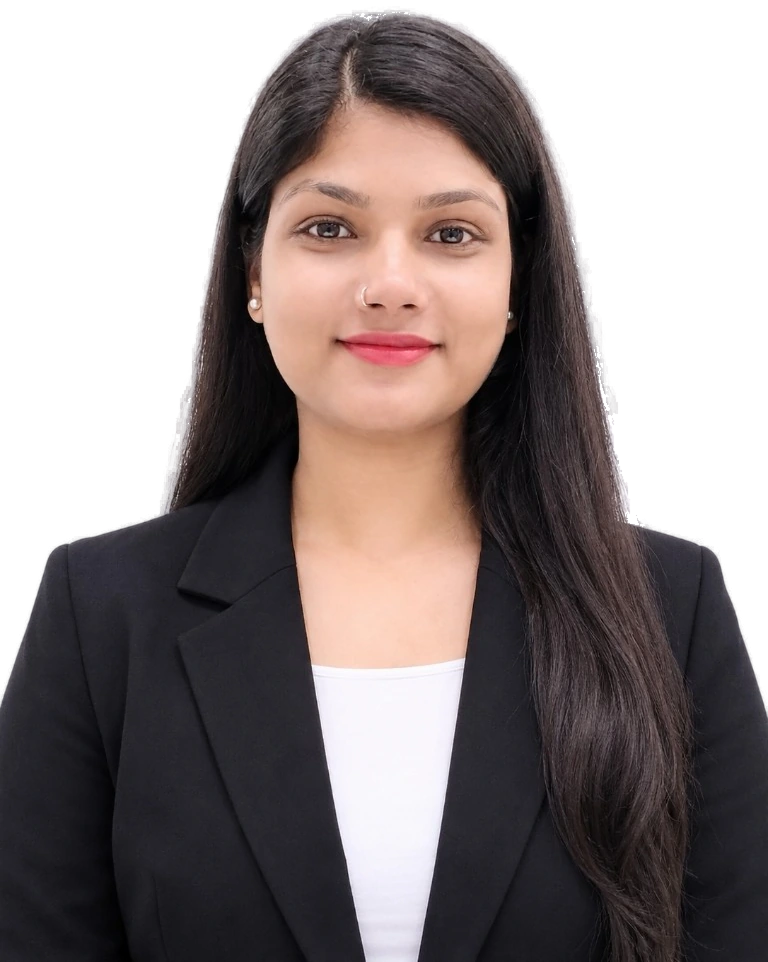
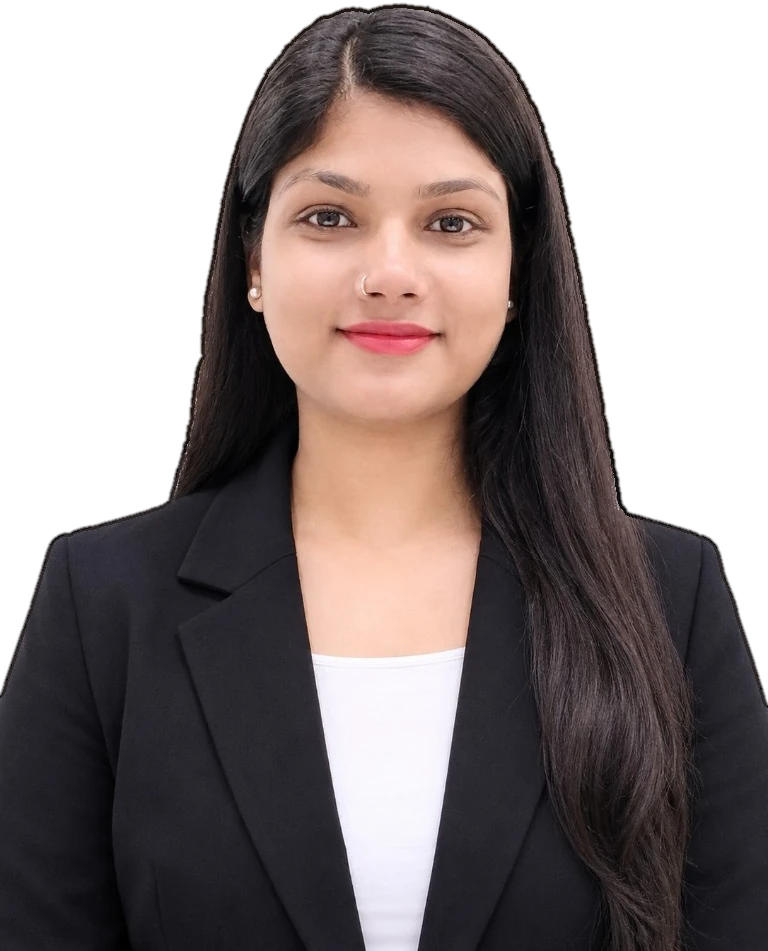
Clean white fringe from the hero portrait cutout.
Re-matte with stronger edge decontamination so hair blends into the peach/ivory hero without studio halos.

diff --git a/frontend/src/components/home/HeroSection.tsx b/frontend/src/components/home/HeroSection.tsx
@@ -20,7 +20,7 @@ type Props = {
 };
 
 /** Transparent cutout portrait. Replaced when an owner upload exists. */
-const FALLBACK_PORTRAIT = "/images/pooja-portrait.webp";
+const FALLBACK_PORTRAIT = "/images/pooja-portrait.webp?v=hair-clean-2";
 
 const BADGE_SLOTS = [
   { style: { top: "22%", left: "18%" }, depth: 18, delay: "0s" },
@@ -224,7 +224,7 @@ export default function HeroSection({
                   initial={{ opacity: 0, y: 40 }}
                   animate={{ opacity: 1, y: 0 }}
                   transition={{ duration: 0.9, delay: 0.3, ease: [0.22, 1, 0.36, 1] }}
-                  className={`h-full w-auto max-w-none select-none object-contain object-bottom drop-shadow-[0_18px_28px_rgba(43,27,24,0.12)] ${portraitBlend}`}
+                  className={`h-full w-auto max-w-none select-none object-contain object-bottom drop-shadow-[0_12px_20px_rgba(43,27,24,0.08)] ${portraitBlend}`}
                   draggable={false}
                 />
               </div>
